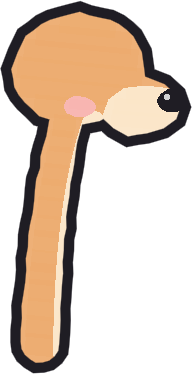
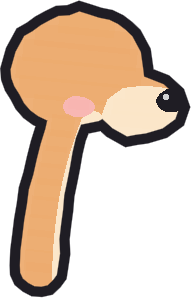
Phone polish: camera hole, timing logs, more ways back
- Menus and the home's buttons stay clear of a phone's camera hole, which
  moves to the other edge when the phone is turned (UI.fit_safe); the world
  still runs edge to edge.
- [timing] log lines for the paint bucket, voices and loading a home, to read
  off a phone with adb logcat.
- Adding a part on the Fix screen asks where it goes first, like making a pet.
- Put it together has Back and Stop; the steps after it get a Stop too.
- Clover's neck is shorter (no longer tiny in its card); Waffles has a curly
  mop instead of a crown of fingers.

Changed region(s): [[0.0, 0.0, 1.0, 1.0]]

diff --git a/.ai/android.md b/.ai/android.md
@@ -28,7 +28,7 @@ so far has been tested only on Windows with a mouse standing in for a finger.
 | **Android SDK**: cmdline-tools, platform-tools (adb), build-tools 35.0.1, platform 35 | `C:\Users\ericc\Android\Sdk` | installed |
 | **Android export template** `android_debug.apk` (CRC-checked) | `%APPDATA%\Godot\export_templates\4.5.1.stable.mono\` | installed |
 | the debug keystore | `%APPDATA%\Godot\keystores\debug.keystore` | made |
-| the editor's paths | Editor Settings > Export > Android > Java SDK Path, Android SDK Path | **Eric sets these in the editor** |
+| the editor's paths | Editor Settings > Export > Android > Java SDK Path, Android SDK Path | set (2026-10-11) |
 
 What was learned setting it up:
 - **The SDK is not under AppData on purpose.** Windows redirects new folders that the Claude
@@ -53,7 +53,7 @@ What was learned setting it up:
   one in its scratchpad (`godot_cfg/Godot/`: `editor_settings-4.5.tres` with the two paths and the
   real keystore path, plus `export_templates/4.5.1.stable.mono/`):
   `APPDATA=<that folder> "$GODOT_BIN" --headless --path . --export-debug "Android" build/drawpets-debug.apk`.
-  Once the paths are set in the editor, the plain command works.
+  The paths are set now, so the plain command works too (and the editor's own export).
 - **The silent export failure:** Godot refuses to export for Android unless
   `rendering/textures/vram_compression/import_etc2_astc` is on, and from the command line it says
   only ".NET on Android is experimental" (the editor shows a "Fix Import" button instead). It is
@@ -173,6 +173,15 @@ debugging > Pair device; `adb mdns services` finds the phone's address and ports
 - **Fixed:** the pet card was taller than the room above the drawer bar (Fix, Voice, Move and Let
   go were under it) - now two columns, and drawn above the bar.
 - The screen is 2424 x 1080 (2.24:1), so the 1280 x 720 design widens to about 1616 x 720.
+- **The camera hole** is an 84 px circle centred on one short edge - in landscape, the middle of
+  the left or right edge, whichever way the phone is held; Android reports a 173 px unsafe band
+  on that side. The game draws edge to edge, so GameRoot reads `DisplayServer.get_display_safe_area()`
+  twice a second (turning the phone moves the hole) and keeps every menu and the home's buttons
+  inside it (`UI.fit_safe`, `UI.safe_insets`); a place's world still runs to the edge. The extra
+  width of a 2.24:1 screen means this costs nothing. Zero on a computer.
+- **Timing**: `[timing] fill`, `[timing] voice` and `[timing] home` lines in the log
+  (`adb logcat -s godot`). On the PC a fill takes 84-132 ms and a voice 5-32 ms; a fill over
+  ~300 ms on a phone is the sign to move the flood fill out of GDScript.
 - **Hardened:** springy parts (ears, horns, antennae) took one step per frame, so a long frame
   (a voice being worked out, a screen loading) could overshoot them - now small fixed steps,
   capped. Prompted by "the pig's ears are all over the place"; not yet confirmed as the cause.

diff --git a/.ai/creature-pipeline.md b/.ai/creature-pipeline.md
@@ -42,6 +42,9 @@ on, so a kid is never asked about horns before there is a head to put them on.
    as it is on Save or when the app goes to the background. Starting a new pet offers to finish
    it. Android's back gesture does what Back does, never dropping a half-drawn pet.
 7. **Put it together** (`AssembleScreen`) - drag, turn, resize, flip, layer, copy, remove.
+   Back reopens the last thing drawn (parts moved here are laid out afresh); Stop as above.
+   The steps after it carry a Stop the creator floats top-right (hidden while a favourite
+   snack or toy is being drawn).
    Dropping an add-on on a head's, arm's or leg's ink re-hangs it there.
 8. Name, size, favourite place; two personality words; favourite food and toy; where it lives.
 
@@ -170,7 +173,8 @@ zoom in its place, toy and food scale, and - when voices land - pitch.
 
 ## Fixing a pet later
 
-`FixScreen` (see `pet-life.md`) reuses the same pieces: `DrawCanvas.load_drawing` starts a sheet
+`FixScreen` (see `pet-life.md`) reuses the same pieces - adding a part asks where it goes
+first, on the drawing it goes on (`DrawScreen.place_only`), then draws it zoomed in there: `DrawCanvas.load_drawing` starts a sheet
 from the existing drawing (undo stops at it), placed so its red dot - its joint - lands on the
 sheet's dot, and `PetBuilder.replace_drawing` swaps the drawing for every part using it while
 keeping their joints, so nothing moves. Adding uses `add_parts` with an explicit host; a second,
